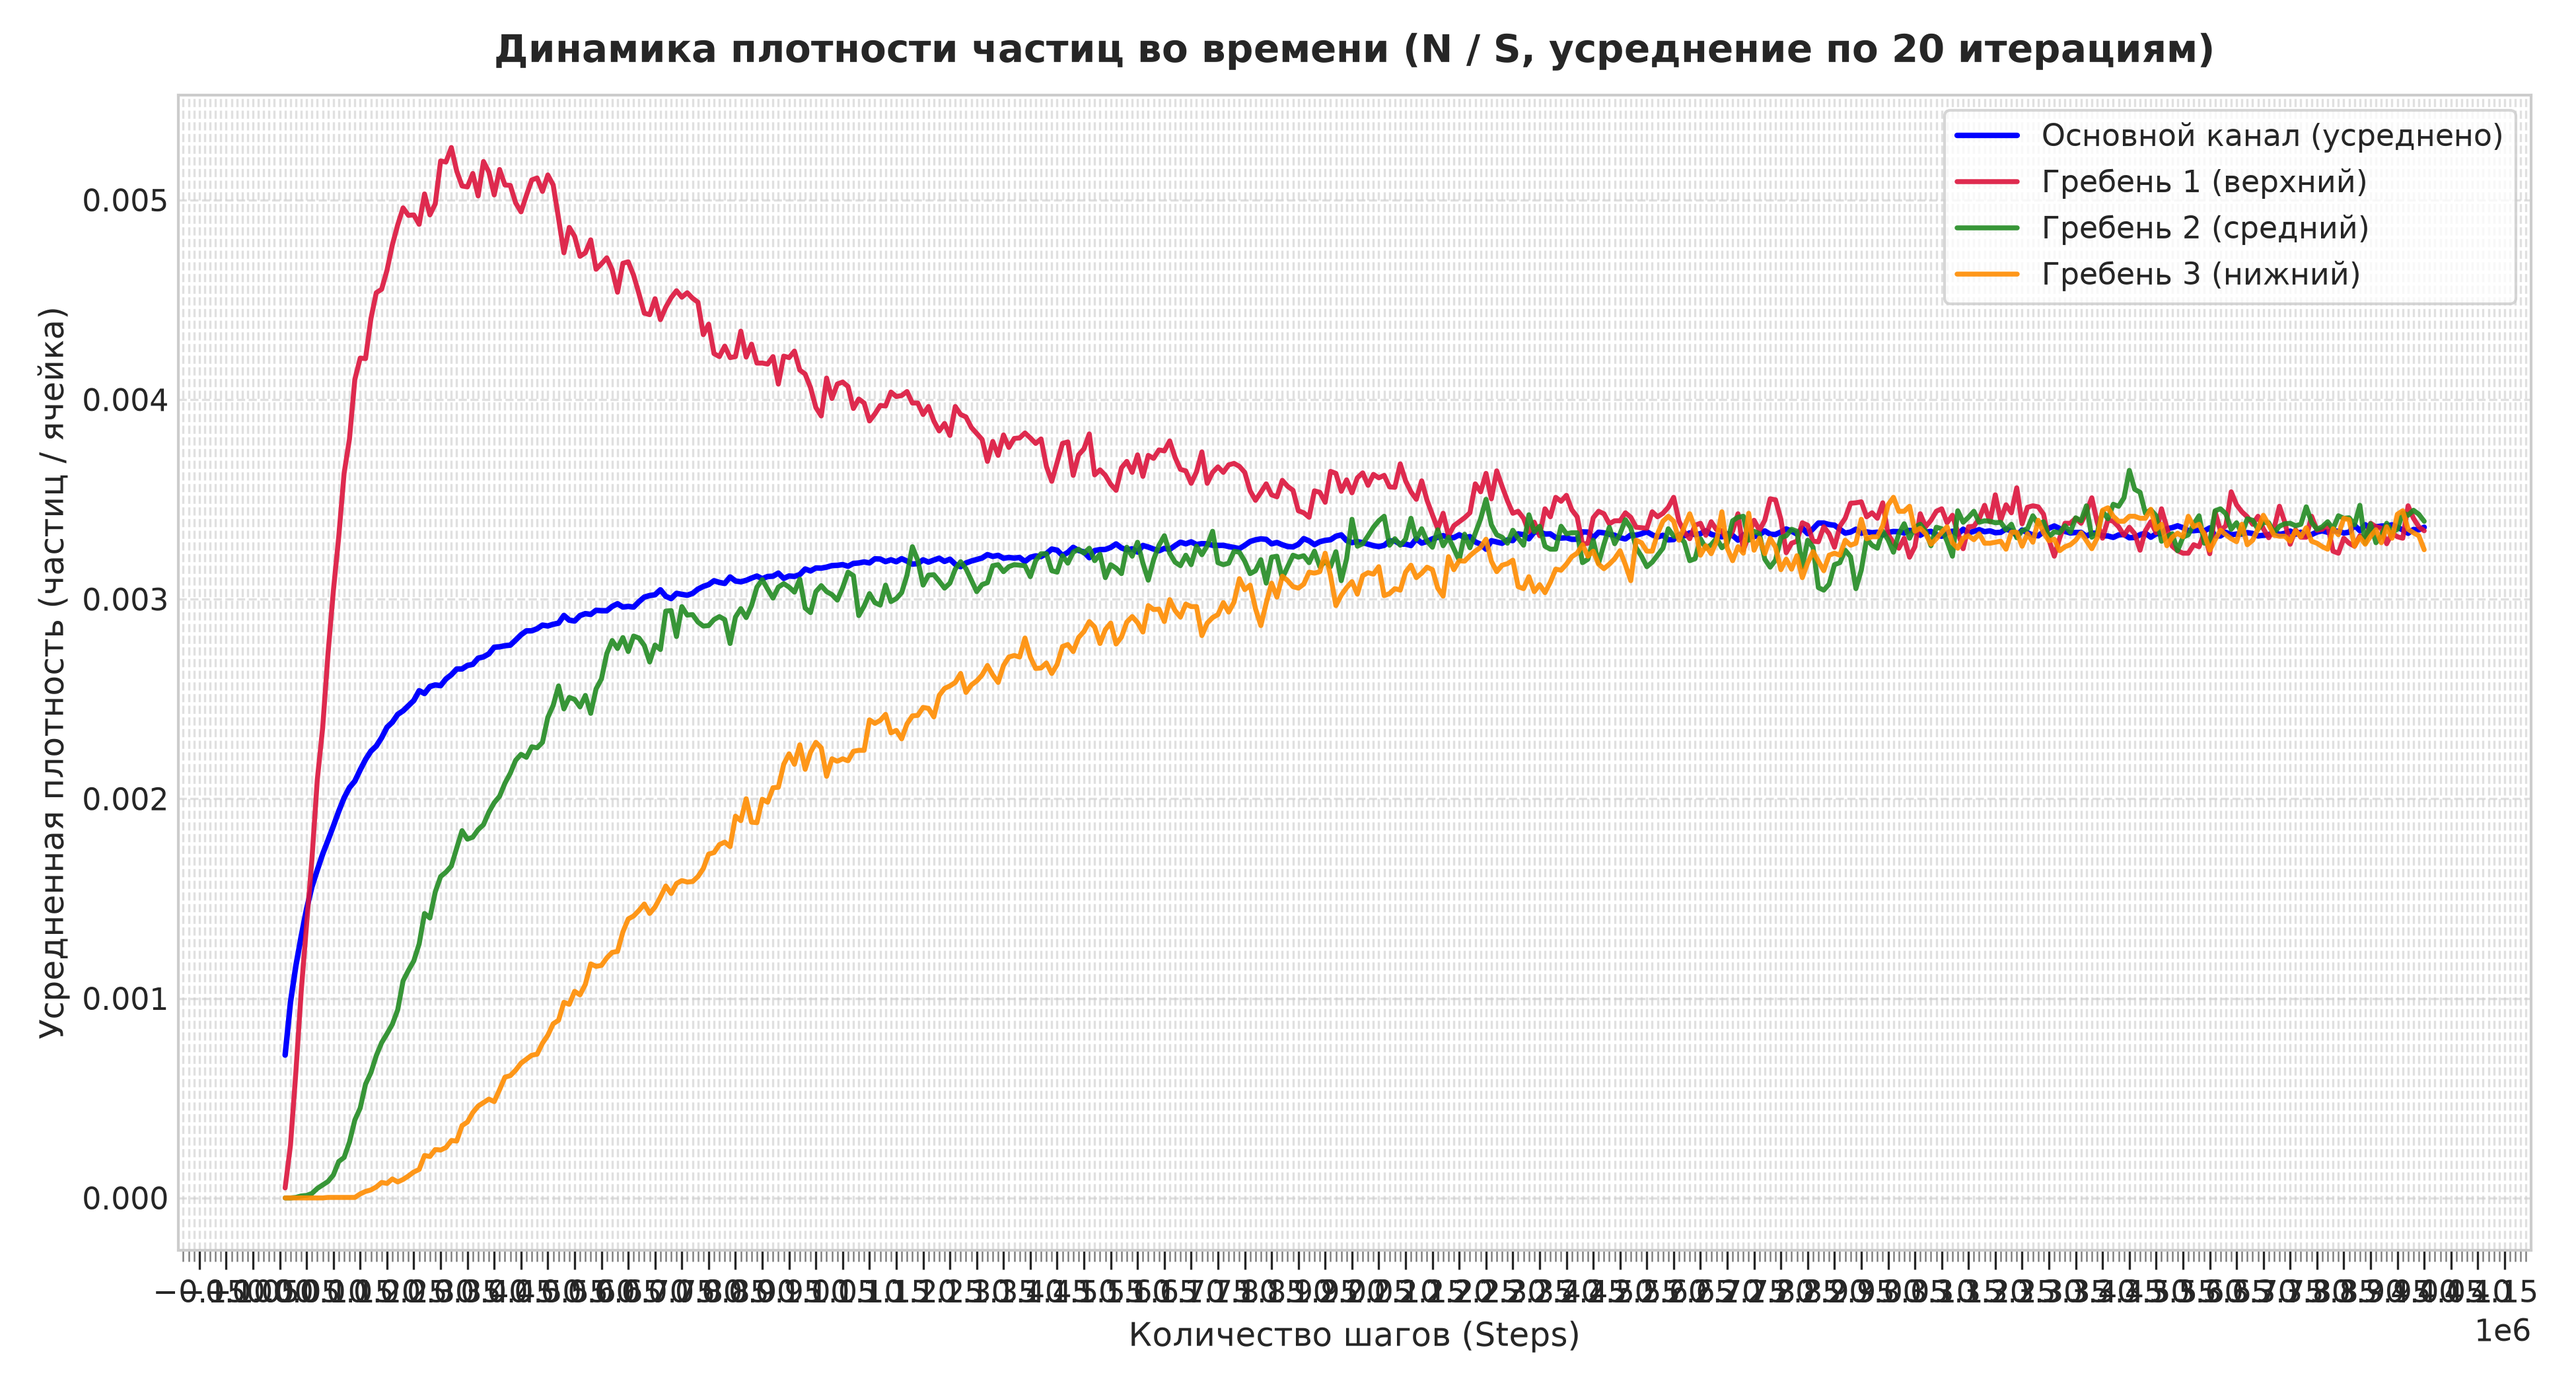
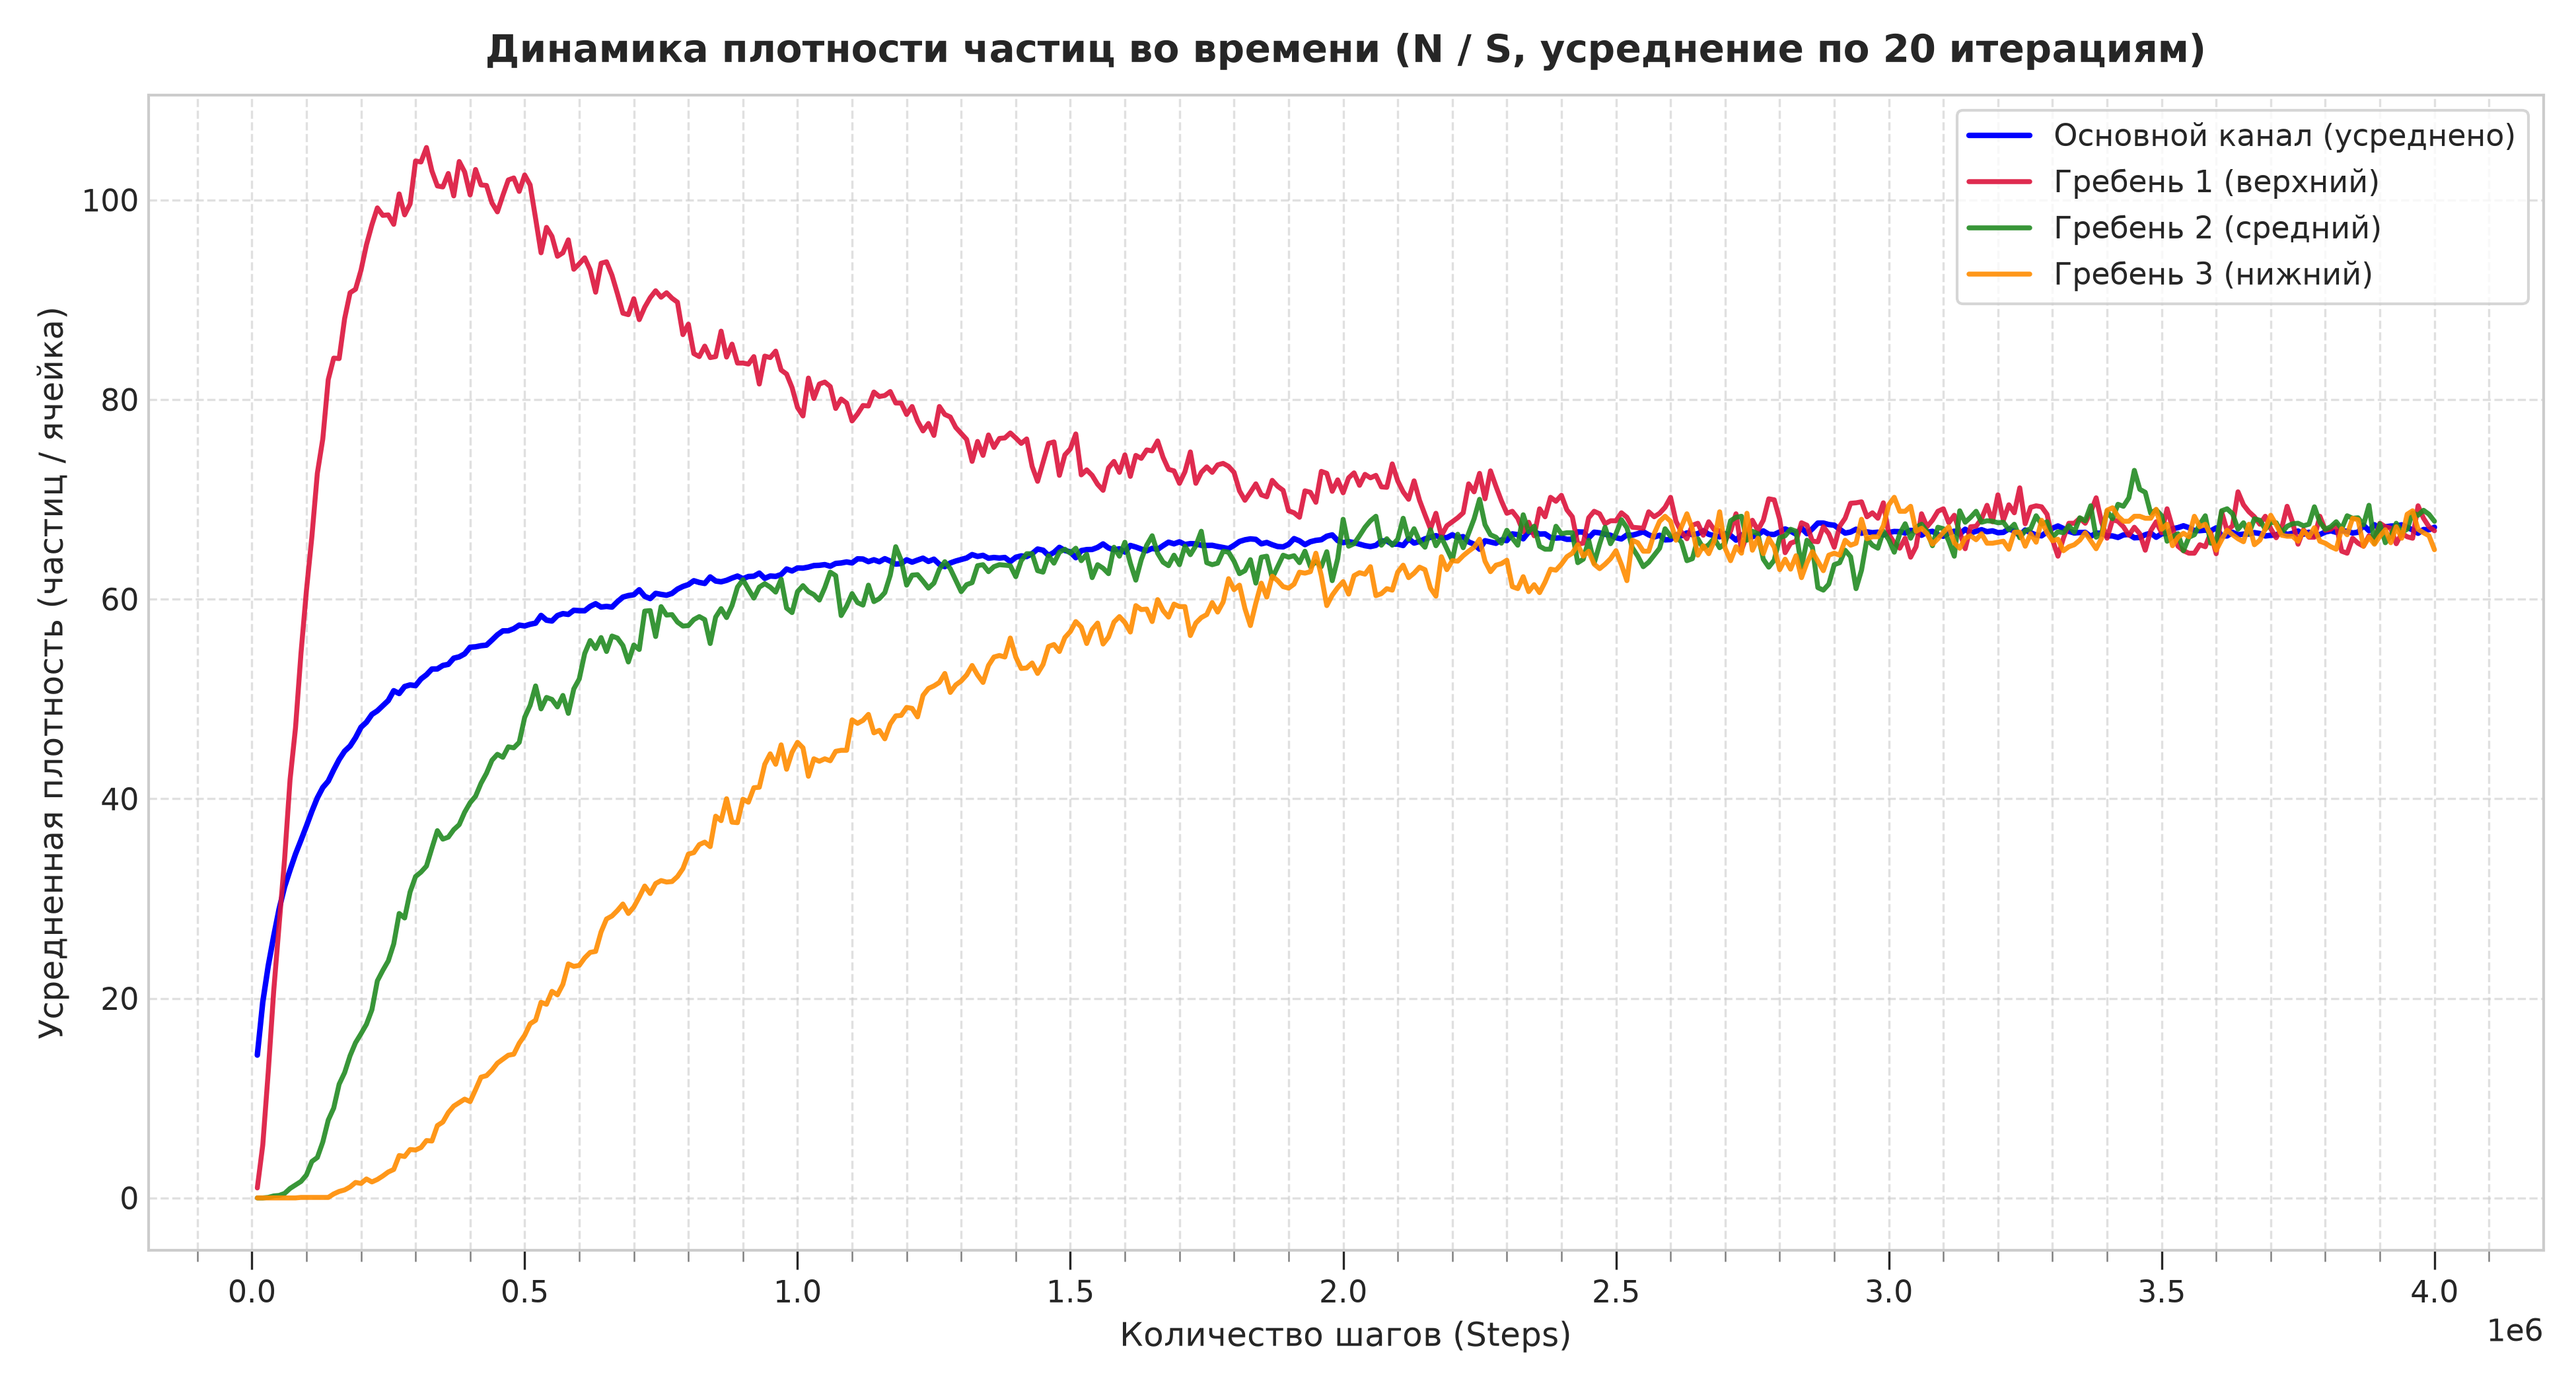
График количества точек в областях

Changed region(s): [[0.031, 0.0, 0.9928, 0.9905]]

diff --git a/plot_densities_2.py b/plot_densities_2.py
@@ -24,6 +24,32 @@ if not json_files:
 print(f"Найдено файлов для анализа: {len(json_files)}")
 
 data_by_step = {}
+import os
+import glob
+import json
+import numpy as np
+import matplotlib.pyplot as plt
+from matplotlib.ticker import MultipleLocator
+
+# Константы геометрии
+MAIN_WIDTH = 200
+TOOTH_WIDTH = 100
+COMB_HEIGHT = 1000
+BUF_HEIGHT = 200
+
+# Площади зон (в пикселях / ячейках)
+AREA_MAIN = 10
+AREA_TOOTH = 1 
+
+json_dir = "./plotnost"
+json_files = glob.glob(os.path.join(json_dir, "iteration_*.json"))
+
+if not json_files:
+    raise FileNotFoundError(f"Файлы JSON не найдены в {json_dir}")
+
+print(f"Найдено файлов для анализа: {len(json_files)}")
+
+data_by_step = {}
 
 for filepath in json_files:
     with open(filepath, 'r') as f:
@@ -83,8 +109,8 @@ ax.set_xlabel('Количество шагов (Steps)', fontsize=12)
 ax.set_ylabel('Усредненная плотность (частиц / ячейка)', fontsize=12)
 
 # Каждое деление оси X = 10 000 шагов
-ax.xaxis.set_major_locator(MultipleLocator(50000))  # Основные подписи с текстом (раз в 50 000)
-ax.xaxis.set_minor_locator(MultipleLocator(10000))  # Насечки ровно через каждые 10 000 шагов
+ax.xaxis.set_major_locator(MultipleLocator(500000))  # Основные подписи с текстом (раз в 50 000)
+ax.xaxis.set_minor_locator(MultipleLocator(100000))  # Насечки ровно через каждые 10 000 шагов
 ax.tick_params(axis='x', which='minor', length=4, color='gray')
 ax.tick_params(axis='x', which='major', length=7)
 
@@ -92,7 +118,7 @@ ax.legend(loc='best', frameon=True)
 ax.grid(True, which='both', linestyle='--', alpha=0.6)
 plt.tight_layout()
 
-plt.savefig('densities_combined_avg.png', dpi=300)
+plt.savefig('densities_combined_avg_2.png', dpi=300)
 plt.show()
 
 fig, axes = plt.subplots(2, 2, figsize=(15, 10), sharex=True)
@@ -119,5 +145,101 @@ axes[1, 1].set_xlabel('Количество шагов', fontsize=11)
 plt.suptitle(f'Усредненная плотность частиц по зонам ({len(json_files)} прогонов)', fontsize=15, fontweight='bold')
 plt.tight_layout()
 
-plt.savefig('densities_subplots_avg.png', dpi=300)
+plt.savefig('densities_subplots_avg_2.png', dpi=300)
+plt.show()
+for filepath in json_files:
+    with open(filepath, 'r') as f:
+        run_data = json.load(f)
+
+    steps_dict = run_data.get("steps", {})
+    for step_str, particles in steps_dict.items():
+        step = int(step_str)
+        if step not in data_by_step:
+            data_by_step[step] = {'main': [], 't1': [], 't2': [], 't3': []}
+
+        count_main = 0
+        count_t1 = 0
+        count_t2 = 0
+        count_t3 = 0
+
+        for p in particles:
+            x, y = p['x'], p['y']
+            # Зоны внутри гребенки (y >= 200)
+            if y >= BUF_HEIGHT:
+                if x >= TOOTH_WIDTH:
+                    count_main += 1
+                else:
+                    y_comb = y - BUF_HEIGHT
+                    if 100 <= y_comb <= 299:
+                        count_t1 += 1
+                    elif 400 <= y_comb <= 599:
+                        count_t2 += 1
+                    elif 700 <= y_comb <= 899:
+                        count_t3 += 1
+
+        data_by_step[step]['main'].append(count_main / AREA_MAIN)
+        data_by_step[step]['t1'].append(count_t1 / AREA_TOOTH)
+        data_by_step[step]['t2'].append(count_t2 / AREA_TOOTH)
+        data_by_step[step]['t3'].append(count_t3 / AREA_TOOTH)
+
+steps = sorted(data_by_step.keys())
+
+mean_main = [np.mean(data_by_step[s]['main']) for s in steps]
+mean_t1   = [np.mean(data_by_step[s]['t1'])   for s in steps]
+mean_t2   = [np.mean(data_by_step[s]['t2'])   for s in steps]
+mean_t3   = [np.mean(data_by_step[s]['t3'])   for s in steps]
+
+plt.style.use('seaborn-v0_8-whitegrid' if 'seaborn-v0_8-whitegrid' in plt.style.available else 'default')
+plt.rcParams['font.size'] = 11
+
+fig, ax = plt.subplots(figsize=(13, 7))
+
+ax.plot(steps, mean_main, label='Основной канал (усреднено)', color='blue', linewidth=2)
+ax.plot(steps, mean_t1,   label='Гребень 1 (верхний)', color='crimson', linewidth=1.8, alpha=0.9)
+ax.plot(steps, mean_t2,   label='Гребень 2 (средний)', color='forestgreen', linewidth=1.8, alpha=0.9)
+ax.plot(steps, mean_t3,   label='Гребень 3 (нижний)',  color='darkorange', linewidth=1.8, alpha=0.9)
+
+ax.set_title(f'Динамика плотности частиц во времени (N / S, усреднение по {len(json_files)} итерациям)', 
+             fontsize=14, fontweight='bold', pad=12)
+ax.set_xlabel('Количество шагов (Steps)', fontsize=12)
+ax.set_ylabel('Усредненная плотность (частиц / ячейка)', fontsize=12)
+
+# Каждое деление оси X = 10 000 шагов
+ax.xaxis.set_major_locator(MultipleLocator(500000))  # Основные подписи с текстом (раз в 50 000)
+ax.xaxis.set_minor_locator(MultipleLocator(100000))  # Насечки ровно через каждые 10 000 шагов
+ax.tick_params(axis='x', which='minor', length=4, color='gray')
+ax.tick_params(axis='x', which='major', length=7)
+
+ax.legend(loc='best', frameon=True)
+ax.grid(True, which='both', linestyle='--', alpha=0.6)
+plt.tight_layout()
+
+plt.savefig('densities_combined_avg_2.png', dpi=300)
+plt.show()
+
+fig, axes = plt.subplots(2, 2, figsize=(15, 10), sharex=True)
+
+zones = [
+    (mean_main, 'Основной прямоугольник', 'blue', axes[0, 0]),
+    (mean_t1,   'Гребень 1 (верхний)', 'crimson', axes[0, 1]),
+    (mean_t2,   'Гребень 2 (средний)', 'forestgreen', axes[1, 0]),
+    (mean_t3,   'Гребень 3 (нижний)',  'darkorange', axes[1, 1])
+]
+
+for mean_vals, title, color, ax in zones:
+    ax.plot(steps, mean_vals, color=color, linewidth=2)
+    ax.set_title(title, fontsize=12, fontweight='bold')
+    ax.set_ylabel('Усредненная плотность', fontsize=10)
+
+    ax.xaxis.set_major_locator(MultipleLocator(50000))
+    ax.xaxis.set_minor_locator(MultipleLocator(10000))
+    ax.grid(True, which='both', linestyle='--', alpha=0.5)
+
+axes[1, 0].set_xlabel('Количество шагов', fontsize=11)
+axes[1, 1].set_xlabel('Количество шагов', fontsize=11)
+
+plt.suptitle(f'Усредненная плотность частиц по зонам ({len(json_files)} прогонов)', fontsize=15, fontweight='bold')
+plt.tight_layout()
+
+plt.savefig('densities_subplots_avg_2.png', dpi=300)
 plt.show()
